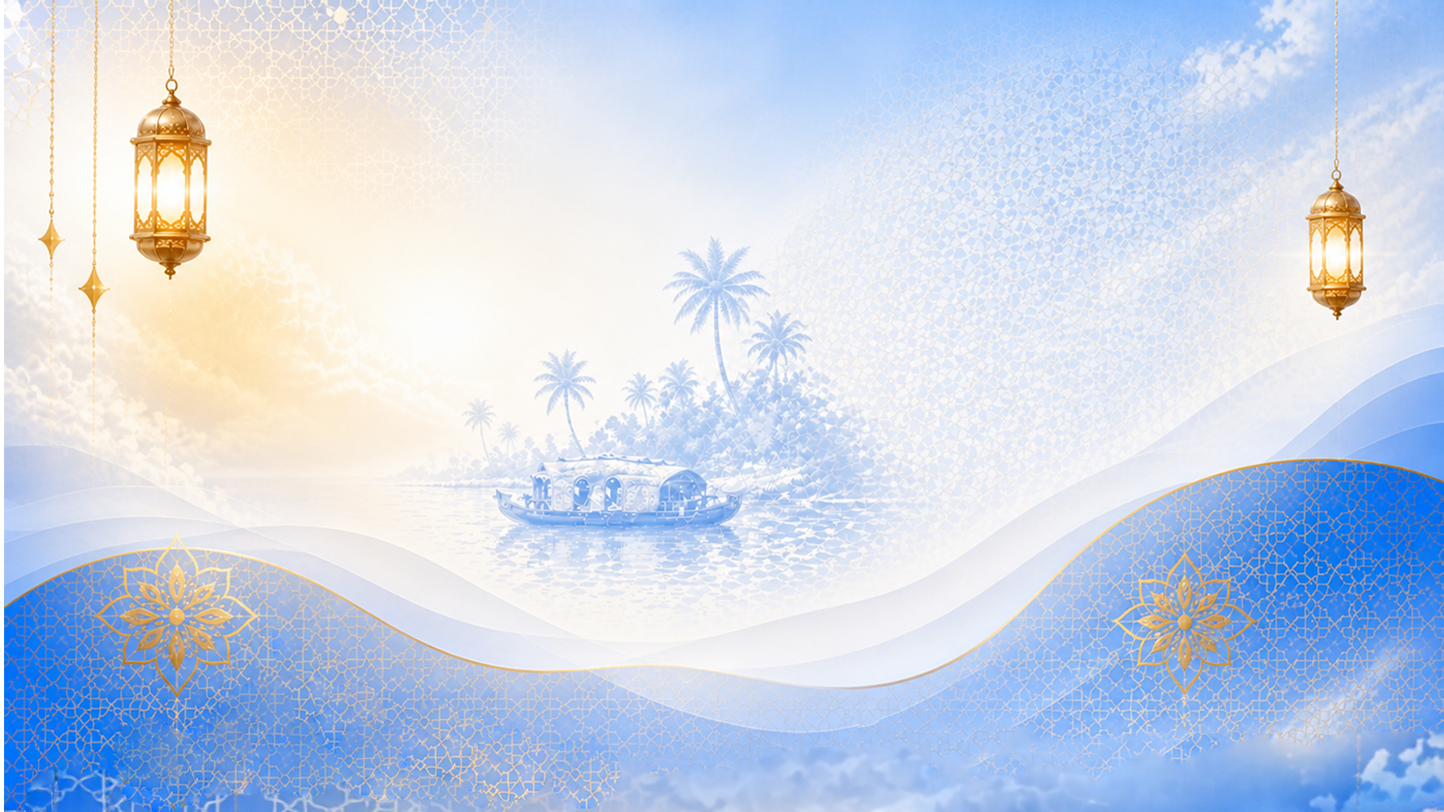
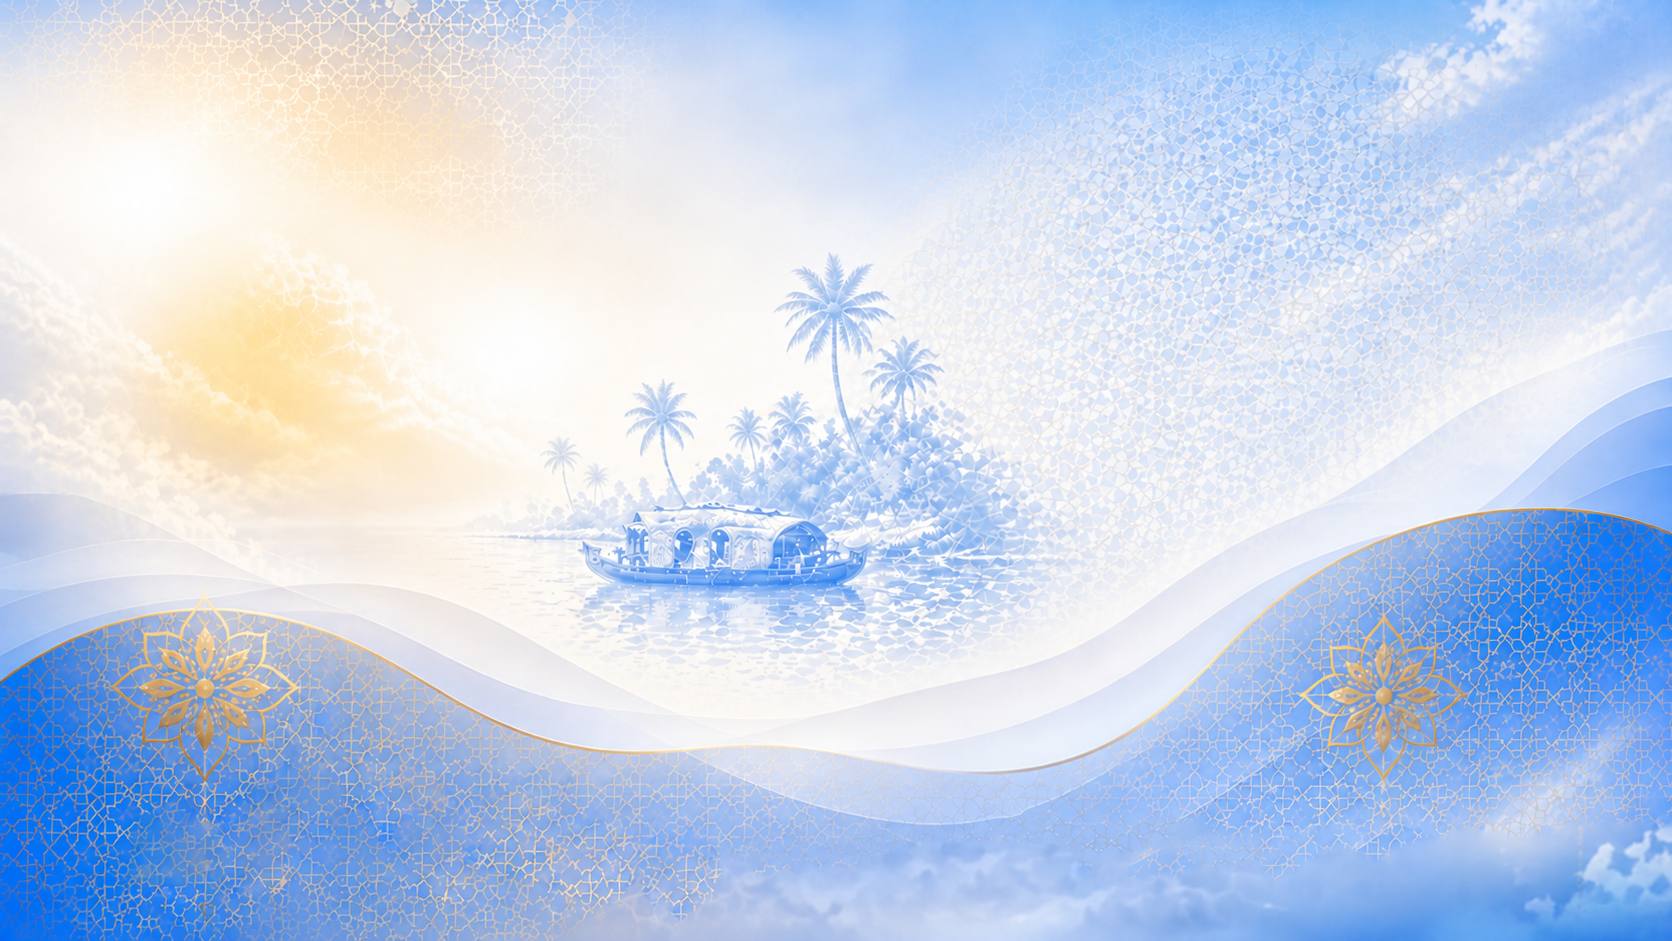
bg adjustment 2

diff --git a/css/components.css b/css/components.css
@@ -29,54 +29,88 @@
 
 .navbar {
     position: fixed;
+    top: 4%;
     left: 50%;
-    top: 5%;
-    z-index: 10;
     transform: translateX(-50%);
-    background: transparent;
-    backdrop-filter: blur(14px);
-    -webkit-backdrop-filter: blur(14px);
-    padding: 12px 35px;
-    border-radius: 40px;
-    box-shadow: 0 10px 25px rgba(0, 0, 0, 0.08);
+    z-index: 1000;
+    padding: 15px 42px;
+    border-radius: 60px;
+    background:rgba(255,255,255,0.32);
+    backdrop-filter: blur(18px);
+    -webkit-backdrop-filter: blur(18px);
+    border:1px solid rgba(212,175,55,0.18);
+    box-shadow:0 10px 40px rgba(0,0,0,0.08),inset 0 1px 1px rgba(255,255,255,0.55);
+    transition:all 0.4s ease;
+    overflow: hidden;
 }
-
+.navbar::before {
+    content: "";
+    position: absolute;
+    inset: 0;
+    border-radius: inherit;
+    background:linear-gradient(120deg,rgba(255,255,255,0.15),rgba(255,255,255,0.03));
+    pointer-events: none;
+}
 .nav-links {
     display: flex;
     align-items: center;
-    gap: 30px;
+    gap: 15px;
     list-style: none;
 }
 
 .nav-links a {
-    text-decoration: none;
-    color: #1a1a1a;
-    font-weight: 500;
-    font-size: 15px;
-    transition: 0.3s;
     position: relative;
+    text-decoration: none;
+    color: #1f1f1f;
+    font-size: 17px;
+    font-weight: 500;
+    transition: all 0.3s ease;
 }
 
 .nav-links a:hover {
-    color: #0077ff;
+    color: #0066ff;
+    transform: translateY(-2px);
 }
 
 .nav-links a::after {
     content: "";
     position: absolute;
-    bottom: -4px;
     left: 50%;
+    bottom: -8px;
     width: 0%;
-    height: 2px;
-    background: #0077ff;
-    transition: 0.3s;
+    height: 3px;
+    border-radius: 20px;
+    background:linear-gradient(to right,#c89b3c,#f4d77a,#c89b3c);
     transform: translateX(-50%);
+    transition: width 0.35s ease;
 }
 
-.nav-links a:hover::after {
-    width: 100%;
+.nav-links a:hover::after,
+.nav-links a.active::after {
+    width: 75%;
 }
-
+.nav-links a.active {
+    color: #c89b3c;
+    text-shadow:0 0 12px rgba(212,175,55,0.18);
+}
+.nav-links a.active::after {
+    width: 75%;
+    background:linear-gradient(to right,#c89b3c,#f4d77a,#c89b3c);
+}
+.nav-dot {
+    width: 5px;
+    height: 5px;
+    border-radius: 50%;
+    background:linear-gradient(135deg,#d4af37,#f6d978);
+    opacity: 0.75;
+    box-shadow:0 0 10px rgba(212,175,55,0.35);
+}
+.navbar.scrolled {
+    background:rgba(255,255,255,0.55);
+    backdrop-filter: blur(24px);
+    box-shadow:0 12px 40px rgba(0,0,0,0.12);
+    padding: 15px 38px;
+}
 /* =========================================
    SHARED BADGE & PRICE
 ========================================= */

diff --git a/js/main.js b/js/main.js
@@ -84,7 +84,45 @@ function scrollToTop() {
         behavior: "smooth"
     });
 }
+// =====================================
+// NAVBAR SCROLL EFFECT
+// =====================================
 
+const navbar=document.querySelector(".navbar");
+
+window.addEventListener("scroll",()=>{
+
+    if(window.scrollY>20){
+        navbar.classList.add("scrolled");
+    }
+
+    else{
+        navbar.classList.remove("scrolled");
+    }
+
+});
+
+// =====================================
+// ACTIVE NAV LINK ON SCROLL
+// =====================================
+
+const sections=document.querySelectorAll("section");
+const navLinks=document.querySelectorAll(".nav-links a");
+window.addEventListener("scroll",()=>{
+    let current="";
+    sections.forEach(section=>{
+        const sectionTop=section.offsetTop;
+        if(window.scrollY>=sectionTop-200){
+            current=section.getAttribute("id");
+        }
+    });
+    navLinks.forEach(link=>{
+        link.classList.remove("active");
+        if(link.getAttribute("href")===`#${current}`){
+            link.classList.add("active");
+        }
+    });
+});
 /* ========================================
 MAKE FUNCTIONS GLOBAL (IMPORTANT)
 ======================================== */

diff --git a/css/main.css b/css/main.css
@@ -9,7 +9,7 @@
 }
 
 body {
-    font-family: "Outfit", sans-serif;
+    font-family: 'Outfit', sans-serif;
     color: #222;
     overflow-x: hidden;
 }
@@ -67,6 +67,40 @@ h1, h2, h3 {
 
     border: 1px solid rgba(255,255,255,0.4);
     box-shadow: 0 20px 50px rgba(0,0,0,0.08);
+}
+
+/* =========================================
+   FONTS
+========================================= */
+.hero-text h1,
+.story-title,
+.bestseller-text h2,
+.products-header h2,
+.customer-love-header h2,
+.stores-header h2,
+.special-title {
+    font-family:'Cormorant Garamond',serif;
+    font-weight: 600;
+    letter-spacing: -0.03em;
+    line-height: 0.95;
+}
+.hero-text h1 span,
+.story-title span,
+.bestseller-text h2 span {
+    font-style: italic;
+    font-weight: 500;
+    color: #c89b3c;
+}
+.hero-text h1 {
+    font-size: 5.5rem;
+    line-height: 0.95;
+    font-weight: 600;
+    color: #111;
+}
+.hero-text h1 span {
+    display: block;
+    margin-top: 8px;
+    color: #0066ff;
 }
 /* =========================================
    HERO SECTION

diff --git a/index.html b/index.html
@@ -7,8 +7,8 @@
     <title>Farsi Laban | Pure & Fresh Egyptian Laban</title>
 
     <link rel="preconnect" href="https://fonts.googleapis.com">
-    <link href="https://fonts.googleapis.com/css2?family=Outfit:wght@400;600&display=swap" rel="stylesheet">
-
+    <link rel="preconnect" href="https://fonts.gstatic.com" crossorigin>
+    <link href="https://fonts.googleapis.com/css2?family=Cormorant+Garamond:wght@400;500;600;700&family=Outfit:wght@300;400;500;600;700&display=swap" rel="stylesheet">
     <link rel="stylesheet" href="css/main.css">
     <link rel="stylesheet" href="css/components.css">
     <link rel="stylesheet" href="css/animations.css">
@@ -84,11 +84,15 @@
 
             <nav class="navbar">
                 <ul class="nav-links">
-                    <li><a href="#">Home</a></li>
-                    <li><a href="#story">Our Story</a></li>
-                    <li><a href="#products">Products</a></li>
-                    <li><a href="#store">Our Stores</a></li>
-                    <li><a href="#contact">Contact</a></li>
+                    <li><a href="#" class="active">Home</a></li>
+                    <li class="nav-dot"></li>
+                    <li><a href="#story" class="active">Our Story</a></li>
+                    <li class="nav-dot"></li>
+                    <li><a href="#products" class="active">Products</a></li>
+                    <li class="nav-dot"></li>
+                    <li><a href="#store" class="active">Our Stores</a></li>
+                    <li class="nav-dot"></li>
+                    <li><a href="#contact" class="active">Contact</a></li>
                 </ul>
             </nav>
         </div>